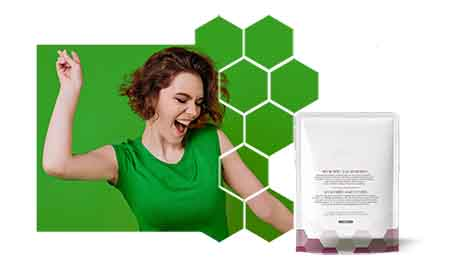
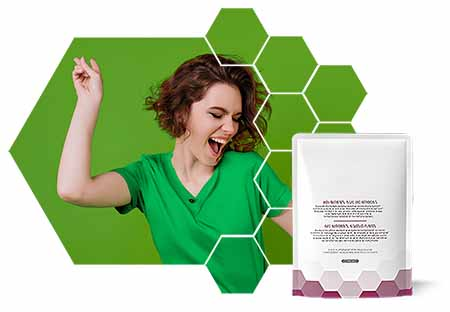
corriger(Description.js) : mettre à jour les sources d'image en fonction de la largeur de l'écran corriger(ProductCardList.js) : mettre à jour la largeur de l'animation de la carte de produit en fonction de la largeur de l'écran corriger(productList.js) : mettre à jour les sources d'image pour les p

diff --git a/frontend/src/components/Description.js b/frontend/src/components/Description.js
@@ -23,23 +23,19 @@ const Description = ({ productDescription, index }) => {
               {index === 0 && (
                 <picture>
                   <source
-                    media="(max-width: 1072)"
-                    srcSet={productDescription.picture150}
-                  />
-                  <source
-                    media="(min-width: 151px) and (max-width: 300px)"
-                    srcSet={productDescription.picture300}
-                  />
-                  <source
-                    media="(min-width: 301px) and (max-width: 450px)"
+                    media="(max-width: 1439px)"
                     srcSet={productDescription.picture450}
                   />
                   <source
-                    media="(min-width: 451px)"
-                    srcSet={productDescription.picture600}
+                    media="(min-width: 1440px) and (max-width: 1600px)"
+                    srcSet={productDescription.picture675}
+                  />
+                  <source
+                    media="(min-width: 1601px)"
+                    srcSet={productDescription.picture900}
                   />
                   <img
-                    src={productDescription.picture600}
+                    src={productDescription.picture1000}
                     alt={productDescription.alt}
                   />
                 </picture>

diff --git a/frontend/src/data/productList.js b/frontend/src/data/productList.js
@@ -27,10 +27,9 @@ export const productList = [
         {
           subTitle: "Préparez-vous à mincir avec notre détox’",
           text: "La base essentielle de toute cure minceur est le nettoyage du corps afin de le préparer à une perte de poids saine et durable.",
-          picture150: "./img/jpg/product/DétoxIllusText150.jpg",
-          picture300: "./img/jpg/product/DétoxIllusText300.jpg",
           picture450: "./img/jpg/product/DétoxIllusText450.jpg",
-          picture600: "./img/jpg/product/DétoxIllusText60.jpg",
+          picture675: "./img/jpg/product/DétoxIllusText675.jpg",
+          picture900: "./img/jpg/product/DétoxIllusText900.jpg",
         },
         {
           subTitle: "Laissez notre détox’ faire le grand nettoyage !",

diff --git a/frontend/src/components/data/ProductCardList.js b/frontend/src/components/data/ProductCardList.js
@@ -45,7 +45,7 @@ const ProductCardList = () => {
         animate={{
           width:
             isActive && windowWidth <= 1072
-              ? "85vw"
+              ? "100vw"
               : isActive && windowWidth >= 1073 && windowWidth <= 1439
               ? "70vw"
               : isActive && windowWidth >= 1440 && windowWidth < 1600

diff --git a/frontend/src/sass/themes/largeScreen/_productCard.scss b/frontend/src/sass/themes/largeScreen/_productCard.scss
@@ -76,6 +76,7 @@
   .productDescriptPresentFirst:first-child {
     display: flex;
     flex-grow: 1;
+    align-items: center;
     margin-top: 15px;
     border-top-left-radius: 20px;
     border-top-right-radius: 40px;

diff --git a/frontend/src/sass/themes/smallScreen/_subCategorySmall.scss b/frontend/src/sass/themes/smallScreen/_subCategorySmall.scss
@@ -1,0 +1,5 @@
+@media screen and (max-width: 1024px) {
+  .subCategory {
+    display: none;
+  }
+}
